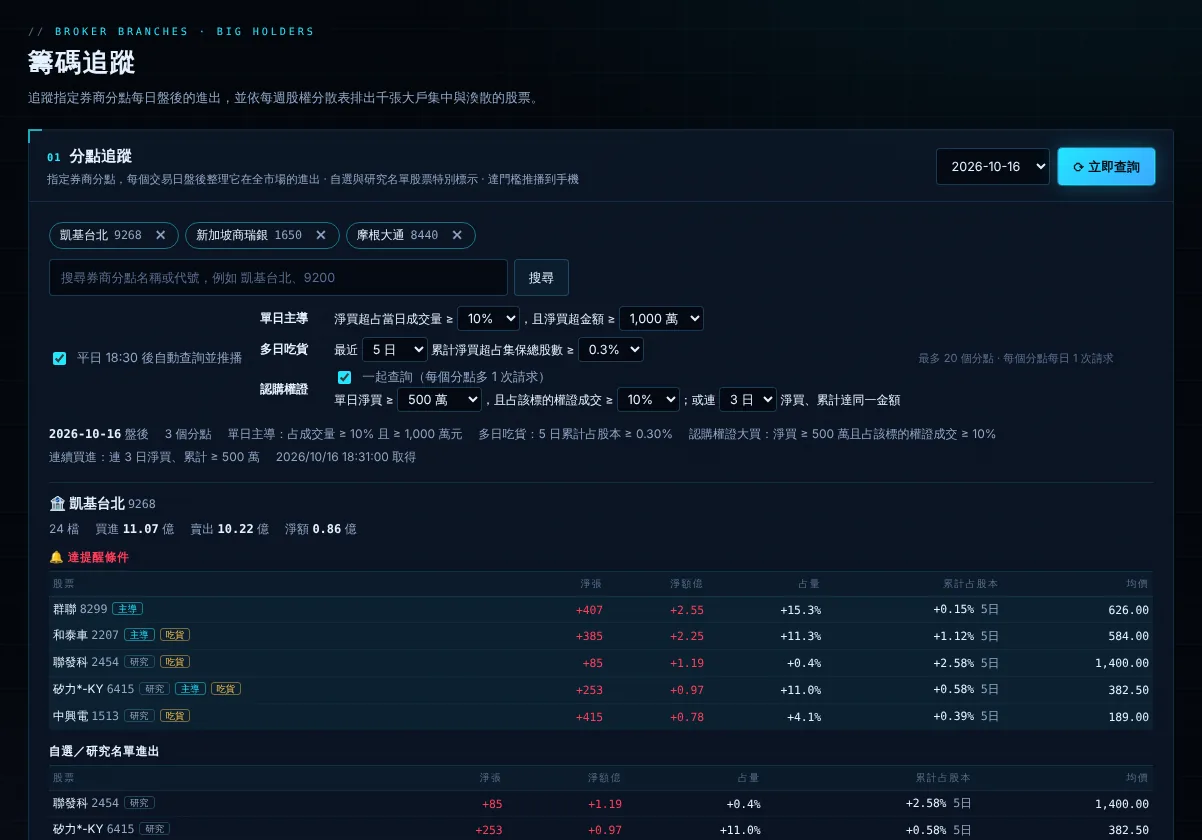
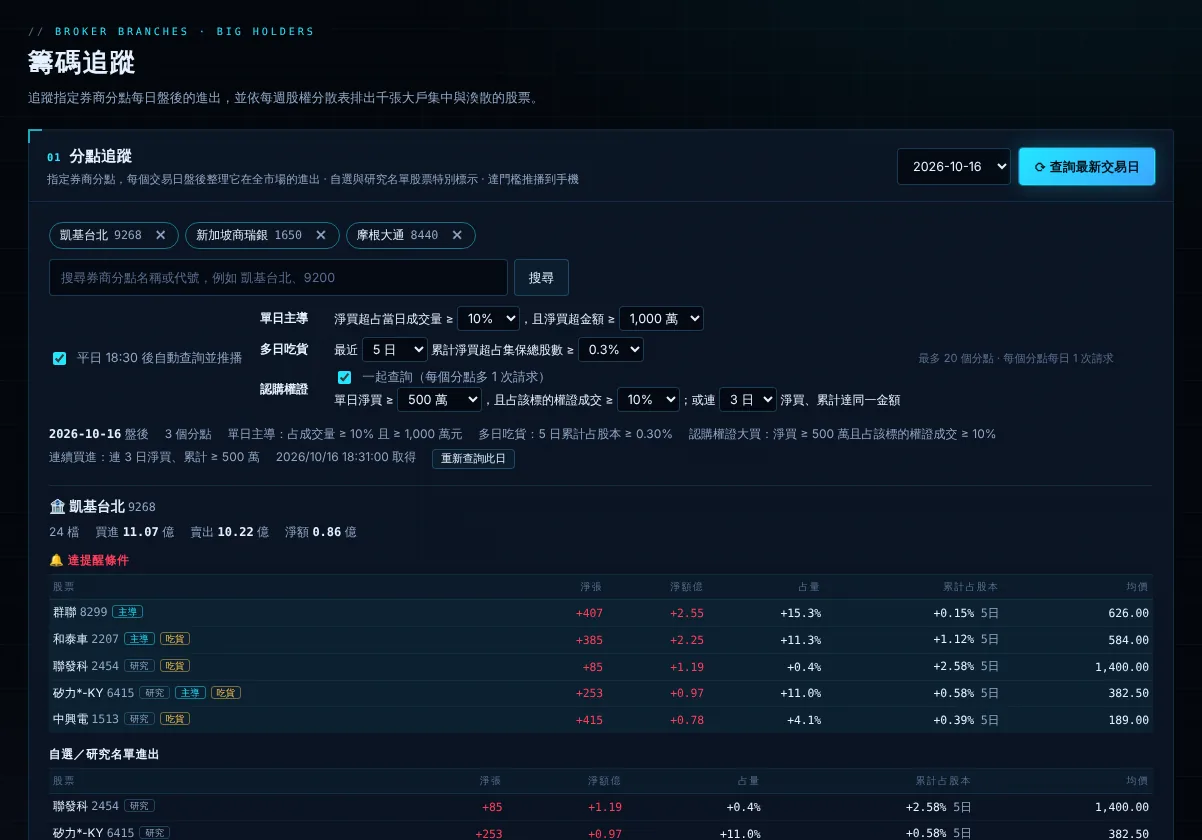
修正分點追蹤日期選單：儲存設定不再跳回最新日期，可查詢任一交易日與重新查詢，查詢改在背景執行並顯示進度
- 調整門檻、加入或移除分點時只更新設定，保留正在看的日期（電腦版與手機版）
- 日期選單新增「其他日期…」（日期欄位＋查詢此日）；每份紀錄旁新增「重新查詢此日」；「立即查詢」改名「查詢最新交易日」
- POST /api/chipwatch/query 檢查非交易日後在背景查詢並回傳 202；GET /api/chipwatch 回傳 date 與查詢進度（busy、query.done／total）
- 頁面每 3 秒更新進度，完成後顯示結果；尚未公布或查詢失敗的訊息註明日期
- 手機版代理的查詢逾時由 300 秒改為 60 秒（查詢已改為立即回傳）
- 說明文件：分點追蹤「排程與查詢」、版本紀錄（並把 10/18、10/21 兩節移到最上面）、README 常見問題、架構說明；更新籌碼追蹤截圖

Claude-Session: https://claude.ai/code/session_013XEoTHEjVVDNch73KNvd6c

diff --git a/EquiLens-Nexus/public/chipwatch.js b/EquiLens-Nexus/public/chipwatch.js
@@ -1,16 +1,33 @@
 // 籌碼追蹤頁：分點追蹤（指定券商分點每日盤後進出）＋大戶集中度排行（每週股權分散表）。台股 FinMind Sponsor。
-import { esc, branchRulesForm, fmt, chipwatchHTML, branchChips, branchSearchHTML, holderRankHTML } from './insight-ui.js';
+import { esc, branchRulesForm, fmt, chipwatchHTML, cwDateHTML, branchChips, branchSearchHTML, holderRankHTML } from './insight-ui.js';
 import { t } from './i18n.js';
 let C = null; // { api, toast, page }（股票按鈕由 live.js 的 data-alert-stock 處理）
-const W = { info: null, rank: null, scope: 'mine', found: null, q: '', loading: false, hloading: false, error: '' };
+// date：正在檢視的紀錄日期（空白＝最新）；picking：展開「其他日期」的日期欄位
+const W = { info: null, rank: null, scope: 'mine', found: null, q: '', loading: false, hloading: false, error: '', date: '', picking: false, pickDate: '' };
 export function initChipwatch(ctx) { C = ctx; }
 const repaint = () => { if (C.page() !== 'chips') return; const pc = document.getElementById('pagecontent'); if (pc) { const y = window.scrollY; pc.innerHTML = chipPage(); window.scrollTo(0, y); } };
 
 export async function enterChips() {
-  try { const [info, rank] = await Promise.all([C.api('chipwatch'), C.api('holders/rank?scope=' + W.scope)]); W.info = info; W.rank = rank; W.error = ''; } catch (e) { W.error = e.message; }
-  repaint();
+  try { const [info, rank] = await Promise.all([C.api('chipwatch' + (W.date ? '?date=' + W.date : '')), C.api('holders/rank?scope=' + W.scope)]); W.info = info; W.rank = rank; W.error = ''; } catch (e) { W.error = e.message; }
+  repaint(); if (W.info?.busy) poll();
 }
-async function loadInfo(date) { W.info = await C.api('chipwatch' + (date ? '?date=' + date : '')); }
+async function loadInfo(date) { W.date = date || ''; W.error = ''; W.info = await C.api('chipwatch' + (W.date ? '?date=' + W.date : '')); }
+// 查詢在伺服器背景執行：每 3 秒取一次進度，完成後顯示該日紀錄或原因
+const sleep = ms => new Promise(r => setTimeout(r, ms));
+let polling = false;
+async function poll() {
+  if (polling) return; polling = true;
+  try {
+    while (W.info?.busy) { await sleep(3000); if (C.page() !== 'chips') return; W.info = await C.api('chipwatch?date=' + (W.info.query?.date || W.date)); repaint(); }
+    W.date = W.info?.date || W.date;
+    if (W.loading && !W.info?.error && W.info?.report) C.toast('分點追蹤已更新'); // 失敗或尚未公布的原因由 info.error 顯示
+  } catch (e) { W.error = e.message; } finally { polling = false; W.loading = false; repaint(); }
+}
+async function startQuery(date) {
+  W.loading = true; W.error = ''; W.picking = false; repaint();
+  try { W.info = await C.api('chipwatch/query', date ? { date } : {}); W.date = W.info.date || date || ''; repaint(); await poll(); }
+  catch (err) { W.error = err.message; W.loading = false; repaint(); }
+}
 async function loadRank() { W.rank = await C.api('holders/rank?scope=' + W.scope); }
 
 export function chipPage() {
@@ -19,7 +36,7 @@ export function chipPage() {
   if (i && !i.capable) return `<div class="notice warn"><span>籌碼追蹤需要 FinMind Sponsor 方案（券商分點與全市場股權分散表）。</span><button data-page="settings">資料來源設定 →</button></div>`;
   const s = i?.settings || {};
   const bw = `<section class="panel"><div class="panelhead"><div><h2><span class="idx">01</span>分點追蹤</h2><p>指定券商分點，每個交易日盤後整理它在全市場的進出 · 自選與研究名單股票特別標示 · 達門檻推播到手機</p></div>
-    <div class="actions">${i?.dates?.length ? `<select data-cw-date aria-label="追蹤紀錄日期">${i.dates.slice().reverse().map(d => `<option ${d === i.report?.date ? 'selected' : ''}>${d}</option>`).join('')}</select>` : ''}<button class="primary" data-cw="query" ${W.loading || i?.busy || !s.branches?.length ? 'disabled' : ''}>${W.loading || i?.busy ? '<i class="spinner"></i>查詢中…' : '⟳ 立即查詢'}</button></div></div>
+    <div class="actions">${i ? cwDateHTML(i, W) : ''}<button class="primary" data-cw="query" ${W.loading || i?.busy || !s.branches?.length ? 'disabled' : ''}>${W.loading || i?.busy ? '<i class="spinner"></i>查詢中…' : '⟳ 查詢最新交易日'}</button></div></div>
     <div class="contentpad"><div class="ix-cw-set">${branchChips(s)}
       <form class="ix-cw-search" data-cw-search><input name="q" value="${esc(W.q)}" placeholder="搜尋券商分點名稱或代號，例如 凱基台北、9200" maxlength="30" aria-label="搜尋券商分點"><button type="submit">搜尋</button></form>
       ${W.found ? branchSearchHTML(W.found, s) : ''}
@@ -35,13 +52,16 @@ ${branchRulesForm(s)}<span class="fine">最多 ${i?.maxBranches || 20} 個分點
   return bw + h;
 }
 
-async function saveSettings(patch) { W.info = { ...W.info, ...(await C.api('chipwatch/settings', patch)) }; repaint(); }
+// 儲存設定只更新設定，不改變正在檢視的日期
+async function saveSettings(patch) { const r = await C.api('chipwatch/settings', patch); W.info = { ...W.info, settings: r.settings }; repaint(); }
 document.addEventListener('click', async e => {
   const b = e.target.closest('button'); if (!b || !C || C.page() !== 'chips') return; const ds = b.dataset;
   try {
     if (ds.cwAdd) { const list = [...(W.info?.settings?.branches || []), { id: ds.cwAdd, name: ds.name }]; await saveSettings({ branches: list }); return C.toast(t('已追蹤 {name}', { name: ds.name })); }
     if (ds.cwDel) { await saveSettings({ branches: (W.info?.settings?.branches || []).filter(x => x.id !== ds.cwDel) }); return C.toast('已移除追蹤分點'); }
-    if (ds.cw === 'query') { W.loading = true; W.error = ''; repaint(); try { W.info = await C.api('chipwatch/query', {}); C.toast('分點追蹤已更新'); } catch (err) { W.error = err.message; } finally { W.loading = false; repaint(); } return; }
+    if (ds.cw === 'query') return startQuery('');
+    if (ds.cw === 'requery') return startQuery(ds.date);
+    if (ds.cw === 'pick') { const d = document.querySelector('[data-cw-pick]')?.value; if (!d) return C.toast('請選擇日期'); W.pickDate = d; if (W.info?.dates?.includes(d)) { W.picking = false; await loadInfo(d); return repaint(); } return startQuery(d); }
     if (ds.hrScope) { W.scope = ds.hrScope; await loadRank(); return repaint(); }
     if (ds.hr === 'query') { W.hloading = true; repaint(); try { await C.api('holders/rank/query', {}); await loadRank(); C.toast('大戶資料已更新'); } catch (err) { C.toast(err.message); } finally { W.hloading = false; repaint(); } return; }
   } catch (err) { C.toast(err.message); }
@@ -56,6 +76,7 @@ document.addEventListener('change', async e => {
   const el = e.target; if (!C || C.page() !== 'chips') return;
   try {
     if (el.dataset.cwOpt) { await saveSettings({ [el.dataset.cwOpt]: el.type === 'checkbox' ? el.checked : Number(el.value) }); C.toast('籌碼追蹤設定已儲存'); }
-    if ('cwDate' in el.dataset) { await loadInfo(el.value); repaint(); }
+    if ('cwDate' in el.dataset) { if (el.value === '__pick') { W.picking = true; W.pickDate = W.info?.date || ''; return repaint(); } W.picking = false; await loadInfo(el.value); repaint(); }
+    if ('cwPick' in el.dataset) W.pickDate = el.value;
   } catch (err) { C.toast(err.message); }
 });

diff --git a/EquiLens-Pocket/public/chips.js b/EquiLens-Pocket/public/chips.js
@@ -1,17 +1,35 @@
 // 衡析 Pocket：籌碼分頁的「分點追蹤」與「大戶排行」（台股 FinMind Sponsor）。資料與設定都在電腦上的 Nexus，手機可查看、查詢與調整追蹤分點。
-import { esc, branchRulesForm, chipwatchHTML, branchChips, branchSearchHTML, holderRankHTML } from './insight-ui.js';
+import { esc, branchRulesForm, chipwatchHTML, cwDateHTML, branchChips, branchSearchHTML, holderRankHTML } from './insight-ui.js';
 import { t } from './i18n.js';
 
 let C = null; // { api, toast, draw, S }
-const W = { info: null, rank: null, scope: 'mine', found: null, q: '', loading: false, hloading: false, error: '' };
+// date：正在檢視的紀錄日期（空白＝最新）；picking：展開「其他日期」的日期欄位
+const W = { info: null, rank: null, scope: 'mine', found: null, q: '', loading: false, hloading: false, error: '', date: '', picking: false, pickDate: '' };
 export function initChips(ctx) { C = ctx; }
 const redraw = () => { if (C.S.tab === 'flows' && C.S.flows.view !== 'inst') C.draw(); };
 export async function loadChips(force = false) {
   try {
-    if (C.S.flows.view === 'brokers' && (!W.info || force)) W.info = await C.api('api/chipwatch');
+    if (C.S.flows.view === 'brokers' && (!W.info || force)) { await loadInfo(W.date); if (W.info?.busy) poll(); }
     if (C.S.flows.view === 'holders' && (!W.rank || force)) W.rank = await C.api('api/holders/rank?scope=' + W.scope);
     W.error = '';
   } catch (e) { if (!e.silent) W.error = e.message; }
+}
+async function loadInfo(date) { W.date = date || ''; W.error = ''; W.info = await C.api('api/chipwatch' + (W.date ? '?date=' + W.date : '')); }
+// 查詢在 Nexus 背景執行：每 3 秒取一次進度，完成後顯示該日紀錄或原因
+const sleep = ms => new Promise(r => setTimeout(r, ms));
+let polling = false;
+async function poll() {
+  if (polling) return; polling = true;
+  try {
+    while (W.info?.busy) { await sleep(3000); if (C.S.tab !== 'flows' || C.S.flows.view !== 'brokers') return; W.info = await C.api('api/chipwatch?date=' + (W.info.query?.date || W.date)); redraw(); }
+    W.date = W.info?.date || W.date;
+    if (W.loading && !W.info?.error && W.info?.report) C.toast('分點追蹤已更新'); // 失敗或尚未公布的原因由 info.error 顯示
+  } catch (e) { if (!e.silent) W.error = e.message; } finally { polling = false; W.loading = false; redraw(); }
+}
+async function startQuery(date) {
+  W.loading = true; W.error = ''; W.picking = false; redraw();
+  try { W.info = await C.api('api/chipwatch/query', date ? { date } : {}); W.date = W.info.date || date || ''; redraw(); await poll(); }
+  catch (err) { if (!err.silent) W.error = err.message; W.loading = false; redraw(); }
 }
 
 export function brokersView() {
@@ -25,8 +43,8 @@ export function brokersView() {
     <div class="ix-cw-opts"><label class="checkbox"><input type="checkbox" data-cw-opt="auto" ${s.auto ? 'checked' : ''}> 平日 18:30 後自動查詢並推播</label>
 ${branchRulesForm(s)}</div></div></section>
     ${W.error ? `<div class="notice err">${esc(W.error)}</div>` : ''}${i.error && !i.busy ? `<div class="notice warn">${esc(i.error)}</div>` : ''}
-    <section class="card"><div class="card-h"><h2>盤後進出</h2>${i.dates?.length ? `<select class="sel" data-cw-date aria-label="紀錄日期">${i.dates.slice().reverse().map(d => `<option ${d === i.report?.date ? 'selected' : ''}>${d}</option>`).join('')}</select>` : ''}</div>
-    <div class="card-b"><button class="btn block primary" style="margin-bottom:12px" data-cw="query" ${W.loading || i.busy || !s.branches.length ? 'disabled' : ''}>${W.loading || i.busy ? '<span class="spinner"></span> 查詢中…' : '⟳ 立即查詢最新交易日'}</button>${chipwatchHTML(i)}</div></section>`;
+    <section class="card"><div class="card-h"><h2>盤後進出</h2>${cwDateHTML(i, { ...W, cls: 'sel' })}</div>
+    <div class="card-b"><button class="btn block primary" style="margin-bottom:12px" data-cw="query" ${W.loading || i.busy || !s.branches.length ? 'disabled' : ''}>${W.loading || i.busy ? '<span class="spinner"></span> 查詢中…' : '⟳ 查詢最新交易日'}</button>${chipwatchHTML(i)}</div></section>`;
 }
 export function holdersView() {
   const r = W.rank;
@@ -40,11 +58,14 @@ export function holdersView() {
 
 document.addEventListener('click', async e => {
   const b = e.target.closest('button'); if (!b || !C || C.S.tab !== 'flows') return; const ds = b.dataset;
-  const save = async patch => { W.info = { ...W.info, ...(await C.api('api/chipwatch/settings', patch)) }; redraw(); };
+  // 儲存設定只更新設定，不改變正在檢視的日期
+  const save = async patch => { const r = await C.api('api/chipwatch/settings', patch); W.info = { ...W.info, settings: r.settings }; redraw(); };
   try {
     if (ds.cwAdd) { await save({ branches: [...W.info.settings.branches, { id: ds.cwAdd, name: ds.name }] }); return C.toast(t('已追蹤 {name}', { name: ds.name })); }
     if (ds.cwDel) { await save({ branches: W.info.settings.branches.filter(x => x.id !== ds.cwDel) }); return C.toast('已移除追蹤分點'); }
-    if (ds.cw === 'query') { W.loading = true; W.error = ''; redraw(); try { W.info = await C.api('api/chipwatch/query', {}); C.toast('分點追蹤已更新'); } catch (err) { if (!err.silent) W.error = err.message; } finally { W.loading = false; redraw(); } return; }
+    if (ds.cw === 'query') return startQuery('');
+    if (ds.cw === 'requery') return startQuery(ds.date);
+    if (ds.cw === 'pick') { const d = document.querySelector('[data-cw-pick]')?.value; if (!d) return C.toast('請選擇日期'); W.pickDate = d; if (W.info?.dates?.includes(d)) { W.picking = false; await loadInfo(d); return redraw(); } return startQuery(d); }
     if (ds.hrScope) { W.scope = ds.hrScope; W.rank = null; redraw(); await loadChips(); return redraw(); }
     if (ds.hr === 'query') { W.hloading = true; redraw(); try { await C.api('api/holders/rank/query', {}); W.rank = await C.api('api/holders/rank?scope=' + W.scope); C.toast('大戶資料已更新'); } catch (err) { if (!err.silent) C.toast(err.message); } finally { W.hloading = false; redraw(); } return; }
   } catch (err) { if (!err.silent) C.toast(err.message); }
@@ -58,7 +79,8 @@ document.addEventListener('submit', async e => {
 document.addEventListener('change', async e => {
   const el = e.target; if (!C || C.S.tab !== 'flows') return;
   try {
-    if (el.dataset.cwOpt) { W.info = { ...W.info, ...(await C.api('api/chipwatch/settings', { [el.dataset.cwOpt]: el.type === 'checkbox' ? el.checked : Number(el.value) })) }; C.toast('設定已儲存'); redraw(); }
-    if ('cwDate' in el.dataset) { W.info = await C.api('api/chipwatch?date=' + el.value); redraw(); }
+    if (el.dataset.cwOpt) { const r = await C.api('api/chipwatch/settings', { [el.dataset.cwOpt]: el.type === 'checkbox' ? el.checked : Number(el.value) }); W.info = { ...W.info, settings: r.settings }; C.toast('設定已儲存'); redraw(); }
+    if ('cwDate' in el.dataset) { if (el.value === '__pick') { W.picking = true; W.pickDate = W.info?.date || ''; return redraw(); } W.picking = false; await loadInfo(el.value); redraw(); }
+    if ('cwPick' in el.dataset) W.pickDate = el.value;
   } catch (err) { if (!err.silent) C.toast(err.message); }
 });

diff --git a/EquiLens-Nexus/public/insight-ui.js b/EquiLens-Nexus/public/insight-ui.js
@@ -228,16 +228,24 @@ export function branchHTML(b, { top = 10 } = {}) {
   return `<section class="ix-cw"><h4>🏦 ${esc(b.name)} <small class="num">${esc(b.id)}</small></h4><div class="ix-bmeta"><span>${fmt(b.count)} 檔</span><span>買進 <b>${yi8(b.buyAmt)}</b> 億</span><span>賣出 <b>${yi8(b.sellAmt)}</b> 億</span><span>淨額 <b class="${cls(b.buyAmt - b.sellAmt)}">${yi8(b.buyAmt - b.sellAmt)}</b> 億</span></div>
   ${b.signals?.length ? table(b.signals, '🔔 達提醒條件', 'up') : ''}${b.mine.length ? table(b.mine, '自選／研究名單進出', '') : ''}<div class="ix-bgrid">${table(b.buy.slice(0, top), `買超前 ${top}`, 'up')}${table(b.sell.slice(0, top), `賣超前 ${top}`, 'down')}</div>${branchWarrantHTML(b.warrants)}</section>`;
 }
+// 分點追蹤的日期選單（電腦版與手機版共用）：已有紀錄的日期、目前檢視的日期，以及「其他日期…」（展開日期欄位，可查詢任一交易日）
+export function cwDateHTML(info, { picking = false, pickDate = '', cls = '' } = {}) {
+  const cur = info?.date || '', dates = [...new Set([...(info?.dates || []), ...(cur ? [cur] : [])])].sort().reverse(), have = new Set(info?.dates || []);
+  const today = new Date(Date.now() + 8 * 3600e3).toISOString().slice(0, 10);
+  const sel = `<select ${cls ? `class="${cls}"` : ''} data-cw-date aria-label="追蹤紀錄日期">${dates.length ? '' : '<option value="">尚無紀錄</option>'}${dates.map(d => `<option value="${d}" ${d === cur && !picking ? 'selected' : ''}>${d}${have.has(d) ? '' : '（尚無紀錄）'}</option>`).join('')}<option value="__pick" ${picking ? 'selected' : ''}>其他日期…</option></select>`;
+  return picking ? `${sel}<span class="ix-cw-pick"><input type="date" data-cw-pick max="${today}" min="2015-01-05" value="${esc(pickDate || cur)}" aria-label="查詢日期"><button data-cw="pick">查詢此日</button></span>` : sel;
+}
 export function chipwatchHTML(info) {
-  const r = info?.report;
-  if (!r) return `<p class="ix-empty">${info?.settings?.branches?.length ? '尚無追蹤紀錄。平日 18:30 後自動查詢，也可以立即查詢。' : '先在上方加入要追蹤的券商分點。'}</p>`;
+  const r = info?.report, q = info?.busy && info.query;
+  const prog = q ? `<p class="ix-note">⏳ 正在查詢 ${esc(q.date)}：${fmt(q.done)}／${fmt(q.total)} 個分點${info.settings?.warrants !== false ? '（含認購權證，每個分點 2 次請求）' : ''}，完成後自動顯示</p>` : '';
+  if (!r) return `${prog}<p class="ix-empty">${!info?.settings?.branches?.length ? '先在上方加入要追蹤的券商分點。' : q ? '' : info?.date ? `${esc(info.date)} 尚無追蹤紀錄。 <button class="ix-wbtn" data-cw="requery" data-date="${esc(info.date)}">查詢此日</button>` : '尚無追蹤紀錄。平日 18:30 後自動查詢，也可以立即查詢。'}</p>`;
   const R = r.rules, src = { heatmap: '熱浪圖', replay: '時光機' }[r.volumeSource];
   const rules = R ? `<span>單日主導：占成交量 ≥ ${fmt(R.dayPct)}% 且 ≥ ${fmt(R.minAmount / 1e4)} 萬元</span><span>多日吃貨：${R.accumDays} 日累計占股本 ≥ ${fmt(R.accumPct, 2)}%</span>` : '';
   const WR = r.warrantRules, WI = r.warrantInfo;
   const wrules = WR ? `<span>認購權證大買：淨買 ≥ ${wan(WR.amount)} 萬且占該標的權證成交 ≥ ${fmt(WR.pct)}%</span><span>連續買進：連 ${WR.days} 日淨買、累計 ≥ ${wan(WR.amount)} 萬</span>` : '';
   const gaps = R ? [!src ? '當日成交量未取得，無法判斷單日主導' : '', !r.sharesDate ? '尚無股權分散表，無法判斷多日吃貨' : '',
     WI?.error ? `認購權證：${WI.error}` : '', WI && !WI.error && !WI.turnover ? '認購權證行情未取得，權證大買只看金額' : '', WI?.stale ? '權證標的對照表為舊資料' : ''].filter(Boolean) : [];
-  return `<div class="ix-bmeta"><span><b>${esc(r.date)}</b> 盤後</span><span>${r.branches.length} 個分點</span>${rules}${wrules}<span class="muted">${esc(MK.dateTime(r.builtAt))} 取得</span></div>${gaps.length ? `<p class="ix-note">⚠ ${gaps.join('；')}</p>` : ''}${r.branches.map(b => branchHTML(b)).join('')}
+  return `${prog}<div class="ix-bmeta"><span><b>${esc(r.date)}</b> 盤後</span><span>${r.branches.length} 個分點</span>${rules}${wrules}<span class="muted">${esc(MK.dateTime(r.builtAt))} 取得</span>${q || !info?.settings?.branches?.length ? '' : `<button class="ix-wbtn" data-cw="requery" data-date="${esc(r.date)}">重新查詢此日</button>`}</div>${gaps.length ? `<p class="ix-note">⚠ ${gaps.join('；')}</p>` : ''}${r.branches.map(b => branchHTML(b)).join('')}
   <p class="ix-foot">FinMind 券商分點（依券商代碼查詢）· 約 18:00 更新 · 占量＝淨買賣超 ÷ 當日成交量${src ? `（${src}）` : ''} · 累計占股本＝最近 N 日累計淨買賣超 ÷ 集保總股數${r.sharesDate ? `（${esc(r.sharesDate)} 股權分散表）` : ''} · 「連 N 買／賣」與累計以本機已保存的追蹤紀錄計算${WR ? ' · 認購權證：FinMind 權證分點、證交所／櫃買權證行情，占權證成交＝淨買 ÷ 該標的當日認購權證成交金額，發行券商總公司的自家權證進出不列入' : ''}</p>`;
 }
 // 提醒條件設定（電腦版與手機版共用）

diff --git a/EquiLens-Pocket/public/insight-ui.js b/EquiLens-Pocket/public/insight-ui.js
@@ -228,16 +228,24 @@ export function branchHTML(b, { top = 10 } = {}) {
   return `<section class="ix-cw"><h4>🏦 ${esc(b.name)} <small class="num">${esc(b.id)}</small></h4><div class="ix-bmeta"><span>${fmt(b.count)} 檔</span><span>買進 <b>${yi8(b.buyAmt)}</b> 億</span><span>賣出 <b>${yi8(b.sellAmt)}</b> 億</span><span>淨額 <b class="${cls(b.buyAmt - b.sellAmt)}">${yi8(b.buyAmt - b.sellAmt)}</b> 億</span></div>
   ${b.signals?.length ? table(b.signals, '🔔 達提醒條件', 'up') : ''}${b.mine.length ? table(b.mine, '自選／研究名單進出', '') : ''}<div class="ix-bgrid">${table(b.buy.slice(0, top), `買超前 ${top}`, 'up')}${table(b.sell.slice(0, top), `賣超前 ${top}`, 'down')}</div>${branchWarrantHTML(b.warrants)}</section>`;
 }
+// 分點追蹤的日期選單（電腦版與手機版共用）：已有紀錄的日期、目前檢視的日期，以及「其他日期…」（展開日期欄位，可查詢任一交易日）
+export function cwDateHTML(info, { picking = false, pickDate = '', cls = '' } = {}) {
+  const cur = info?.date || '', dates = [...new Set([...(info?.dates || []), ...(cur ? [cur] : [])])].sort().reverse(), have = new Set(info?.dates || []);
+  const today = new Date(Date.now() + 8 * 3600e3).toISOString().slice(0, 10);
+  const sel = `<select ${cls ? `class="${cls}"` : ''} data-cw-date aria-label="追蹤紀錄日期">${dates.length ? '' : '<option value="">尚無紀錄</option>'}${dates.map(d => `<option value="${d}" ${d === cur && !picking ? 'selected' : ''}>${d}${have.has(d) ? '' : '（尚無紀錄）'}</option>`).join('')}<option value="__pick" ${picking ? 'selected' : ''}>其他日期…</option></select>`;
+  return picking ? `${sel}<span class="ix-cw-pick"><input type="date" data-cw-pick max="${today}" min="2015-01-05" value="${esc(pickDate || cur)}" aria-label="查詢日期"><button data-cw="pick">查詢此日</button></span>` : sel;
+}
 export function chipwatchHTML(info) {
-  const r = info?.report;
-  if (!r) return `<p class="ix-empty">${info?.settings?.branches?.length ? '尚無追蹤紀錄。平日 18:30 後自動查詢，也可以立即查詢。' : '先在上方加入要追蹤的券商分點。'}</p>`;
+  const r = info?.report, q = info?.busy && info.query;
+  const prog = q ? `<p class="ix-note">⏳ 正在查詢 ${esc(q.date)}：${fmt(q.done)}／${fmt(q.total)} 個分點${info.settings?.warrants !== false ? '（含認購權證，每個分點 2 次請求）' : ''}，完成後自動顯示</p>` : '';
+  if (!r) return `${prog}<p class="ix-empty">${!info?.settings?.branches?.length ? '先在上方加入要追蹤的券商分點。' : q ? '' : info?.date ? `${esc(info.date)} 尚無追蹤紀錄。 <button class="ix-wbtn" data-cw="requery" data-date="${esc(info.date)}">查詢此日</button>` : '尚無追蹤紀錄。平日 18:30 後自動查詢，也可以立即查詢。'}</p>`;
   const R = r.rules, src = { heatmap: '熱浪圖', replay: '時光機' }[r.volumeSource];
   const rules = R ? `<span>單日主導：占成交量 ≥ ${fmt(R.dayPct)}% 且 ≥ ${fmt(R.minAmount / 1e4)} 萬元</span><span>多日吃貨：${R.accumDays} 日累計占股本 ≥ ${fmt(R.accumPct, 2)}%</span>` : '';
   const WR = r.warrantRules, WI = r.warrantInfo;
   const wrules = WR ? `<span>認購權證大買：淨買 ≥ ${wan(WR.amount)} 萬且占該標的權證成交 ≥ ${fmt(WR.pct)}%</span><span>連續買進：連 ${WR.days} 日淨買、累計 ≥ ${wan(WR.amount)} 萬</span>` : '';
   const gaps = R ? [!src ? '當日成交量未取得，無法判斷單日主導' : '', !r.sharesDate ? '尚無股權分散表，無法判斷多日吃貨' : '',
     WI?.error ? `認購權證：${WI.error}` : '', WI && !WI.error && !WI.turnover ? '認購權證行情未取得，權證大買只看金額' : '', WI?.stale ? '權證標的對照表為舊資料' : ''].filter(Boolean) : [];
-  return `<div class="ix-bmeta"><span><b>${esc(r.date)}</b> 盤後</span><span>${r.branches.length} 個分點</span>${rules}${wrules}<span class="muted">${esc(MK.dateTime(r.builtAt))} 取得</span></div>${gaps.length ? `<p class="ix-note">⚠ ${gaps.join('；')}</p>` : ''}${r.branches.map(b => branchHTML(b)).join('')}
+  return `${prog}<div class="ix-bmeta"><span><b>${esc(r.date)}</b> 盤後</span><span>${r.branches.length} 個分點</span>${rules}${wrules}<span class="muted">${esc(MK.dateTime(r.builtAt))} 取得</span>${q || !info?.settings?.branches?.length ? '' : `<button class="ix-wbtn" data-cw="requery" data-date="${esc(r.date)}">重新查詢此日</button>`}</div>${gaps.length ? `<p class="ix-note">⚠ ${gaps.join('；')}</p>` : ''}${r.branches.map(b => branchHTML(b)).join('')}
   <p class="ix-foot">FinMind 券商分點（依券商代碼查詢）· 約 18:00 更新 · 占量＝淨買賣超 ÷ 當日成交量${src ? `（${src}）` : ''} · 累計占股本＝最近 N 日累計淨買賣超 ÷ 集保總股數${r.sharesDate ? `（${esc(r.sharesDate)} 股權分散表）` : ''} · 「連 N 買／賣」與累計以本機已保存的追蹤紀錄計算${WR ? ' · 認購權證：FinMind 權證分點、證交所／櫃買權證行情，占權證成交＝淨買 ÷ 該標的當日認購權證成交金額，發行券商總公司的自家權證進出不列入' : ''}</p>`;
 }
 // 提醒條件設定（電腦版與手機版共用）

diff --git a/EquiLens-Pocket/public/app.css b/EquiLens-Pocket/public/app.css
@@ -439,6 +439,9 @@ a.ix-alert{color:inherit;text-decoration:none}
 .ix-cw-chip small{color:var(--muted)}.ix-cw-chip button{padding:2px 8px;border:0;background:none;color:var(--muted)}
 .ix-cw-search{display:flex;gap:6px}.ix-cw-search input{flex:1;min-width:0;padding:9px 10px;border-radius:9px;border:1px solid var(--line2);background:var(--surface);color:var(--text);font-size:16px}
 .ix-cw-search button{padding:9px 14px;border-radius:9px;border:1px solid var(--line2);background:var(--surface2);color:var(--text)}
+.card-h:has(.ix-cw-pick){flex-wrap:wrap}.ix-cw-pick{display:flex;gap:6px;width:100%}
+.ix-cw-pick input{flex:1;min-width:0;min-height:44px;padding:0 10px;border-radius:12px;border:1px solid var(--line2);background:var(--surface);color:var(--text);font-size:16px}
+.ix-cw-pick button{padding:0 14px;border-radius:12px;border:1px solid var(--line2);background:var(--surface2);color:var(--text)}
 .ix-cw-found{display:flex;flex-wrap:wrap;gap:6px}.ix-cw-found button{font-size:.8rem;padding:6px 10px;border-radius:999px;border:1px solid var(--line2);background:var(--surface);color:var(--text)}
 .ix-cw-opts{display:grid;gap:8px;font-size:.84rem}
 .ix-cw{margin-top:14px;padding-top:12px;border-top:1px solid var(--line)}

diff --git a/EquiLens-Nexus/public/hud.css b/EquiLens-Nexus/public/hud.css
@@ -726,6 +726,7 @@ a.ix-alert{color:inherit;text-decoration:none}a.ix-alert:hover .ix-ab>small{colo
 .ix-cw-chip{display:inline-flex;align-items:center;gap:6px;padding:4px 4px 4px 10px;border:1px solid rgba(34,230,255,.45);border-radius:999px;font-size:.8rem;color:var(--ink)}
 .ix-cw-chip small{color:var(--muted);font-family:var(--mono)}.ix-cw-chip button{padding:0 7px;border:0;background:none;color:var(--muted)}
 .ix-cw-search{display:flex;gap:6px;max-width:520px}.ix-cw-search input{flex:1}
+.ix-cw-pick{display:inline-flex;gap:6px;align-items:center}
 .ix-cw-found{display:flex;flex-wrap:wrap;gap:6px}.ix-cw-found button{font-size:.78rem;padding:4px 10px}
 .ix-cw-opts{display:flex;flex-wrap:wrap;gap:8px 18px;align-items:center;font-size:.8rem}
 .ix-cw{margin-top:16px;padding-top:12px;border-top:1px solid var(--line)}

diff --git a/docs/CHANGELOG.zh-TW.md b/docs/CHANGELOG.zh-TW.md
@@ -2,6 +2,30 @@
 
 每次更新都記在這裡，最新的在最上面。各功能的完整說明見[功能說明](features/README.md)。
 
+## 2026-10-21 · 修正分點追蹤的日期選單
+
+- 修正：在日期選單切到過去的日期後，調整門檻、加入或移除分點會跳回最新日期；現在儲存設定不再改變正在看的日期。
+- 日期選單新增「其他日期…」：選一個日期後按「查詢此日」，已有紀錄就直接顯示，沒有紀錄就查詢那一天（可補查漏掉的交易日）；非交易日、未來日期會直接提示。
+- 每份紀錄旁新增「重新查詢此日」，可用目前的門檻重新整理同一天；原本「立即查詢」只能查最新交易日，改名「查詢最新交易日」。
+- 查詢改在背景執行，畫面顯示「正在查詢 某日：已完成／全部分點」，完成後自動顯示結果。原本追蹤分點多、又一起查認購權證時，手機版可能等不到結果就逾時。
+- 查詢失敗或資料尚未公布時，訊息會註明是哪一天。
+- 見[分點追蹤](features/broker-watch.md)。
+
+## 2026-10-21 · 權證追蹤（認購權證）
+
+- 新增[權證追蹤](features/warrants.md)：分點追蹤會一起查每個追蹤分點當天的認購權證進出，依標的彙總，算出淨買金額、占該標的當日認購權證成交的比例，以及連續買進天數。認售、牛熊證與發行券商總公司的自家權證造市不列入。
+- 新提醒：**權證大買**（單日淨買 ≥ 500 萬元且占比 ≥ 10%）與**連續買進**（連 3 日淨買且累計 ≥ 500 萬元），併在分點追蹤的推播中；門檻在「籌碼追蹤」頁調整，也可關閉。
+- 個股視窗（電腦版個股診斷、手機版個股頁）新增「認購權證」：交易中的認購權證、履約價、價內外、剩餘天數、行使比例、成交、名目槓桿、追蹤分點的進出，每檔可查分點。
+- AI 盤後日報的籌碼資料加入追蹤分點的認購權證淨買。
+- 資料：FinMind 權證分點（每個分點每天多 1 次）與權證標的對照（每天 1 次）；認購權證行情取自證交所與櫃買中心開放資料（免金鑰）。
+- 截圖：更新籌碼追蹤、個股診斷與手機版畫面，新增認購權證截圖。
+
+## 2026-10-18 · 倉庫改名 tw-trading-dashboard、說明文件加入畫面截圖
+
+- GitHub 倉庫改名為 `tw-trading-dashboard`；README 的下載指令改用新網址（舊網址 GitHub 會自動轉址）。
+- [README](../README.zh-TW.md) 依功能加入電腦版各頁與手機版的截圖（`docs/images/`）；截圖使用示意資料，不是真實行情。
+- 新增截圖工具 `EquiLens-Nexus/tools/screenshots/`：產生示意資料、固定時間與斷開對外連線後自動截圖，之後改版可重新產生。
+
 ## 2026-10-16 · 點任何股票看走勢與五檔、大盤指數卡
 
 - 電腦版與手機版所有介面中的股票，點擊後都先開啟走勢／K 線視窗：當日走勢（均價線、族群均價線）、5 分 K、日 K、五檔與成交明細；研究名單內的股票可再按「個股診斷」。未訂閱即時推播的股票改用富果盤中報價。見[個股視窗](features/stock-detail.md)。
@@ -23,21 +47,6 @@
 - 修正重新連線補資料後 VWAP 只計算重連後成交的錯誤。
 - 手機版看板點卡片顯示即時走勢（當日均價線、族群均價線）、五檔與成交明細，見[盤中雷達](features/live-radar.md)。
 - 五檔錄製每日匯出 ZIP（每檔 CSV）到指定資料夾（例如 Dropbox），見[五檔錄製器](features/book-recorder.md)；CSV 產生速度加快約 20 倍。
-
-## 2026-10-21 · 權證追蹤（認購權證）
-
-- 新增[權證追蹤](features/warrants.md)：分點追蹤會一起查每個追蹤分點當天的認購權證進出，依標的彙總，算出淨買金額、占該標的當日認購權證成交的比例，以及連續買進天數。認售、牛熊證與發行券商總公司的自家權證造市不列入。
-- 新提醒：**權證大買**（單日淨買 ≥ 500 萬元且占比 ≥ 10%）與**連續買進**（連 3 日淨買且累計 ≥ 500 萬元），併在分點追蹤的推播中；門檻在「籌碼追蹤」頁調整，也可關閉。
-- 個股視窗（電腦版個股診斷、手機版個股頁）新增「認購權證」：交易中的認購權證、履約價、價內外、剩餘天數、行使比例、成交、名目槓桿、追蹤分點的進出，每檔可查分點。
-- AI 盤後日報的籌碼資料加入追蹤分點的認購權證淨買。
-- 資料：FinMind 權證分點（每個分點每天多 1 次）與權證標的對照（每天 1 次）；認購權證行情取自證交所與櫃買中心開放資料（免金鑰）。
-- 截圖：更新籌碼追蹤、個股診斷與手機版畫面，新增認購權證截圖。
-
-## 2026-10-18 · 倉庫改名 tw-trading-dashboard、說明文件加入畫面截圖
-
-- GitHub 倉庫改名為 `tw-trading-dashboard`；README 的下載指令改用新網址（舊網址 GitHub 會自動轉址）。
-- [README](../README.zh-TW.md) 依功能加入電腦版各頁與手機版的截圖（`docs/images/`）；截圖使用示意資料，不是真實行情。
-- 新增截圖工具 `EquiLens-Nexus/tools/screenshots/`：產生示意資料、固定時間與斷開對外連線後自動截圖，之後改版可重新產生。
 
 ## 2026-10-16 · 當沖大盤環境紀錄（只記錄）
 

diff --git a/docs/ARCHITECTURE.md b/docs/ARCHITECTURE.md
@@ -25,7 +25,7 @@ mobile UI and Web Push relay. There is no database and no build step: plain ES m
 | `lib/radar.mjs`, `lib/replay.mjs` | Intraday alerts and the per-minute time-machine recorder |
 | `lib/pricealerts.mjs` | Custom alerts: user rules per stock (price above/below, % up/down, projected volume ratio), checked on every snapshot or stream row; fires on the false→true crossing, one-time rules disable themselves, repeating rules re-arm with a 5-minute cooldown. Rules in `.local/price-alerts.json`; APIs `GET/POST /api/price-alerts`, `POST /api/price-alerts/delete` |
 | `lib/warrants.mjs` | Warrant tracking (Taiwan, call warrants only, pure): FinMind warrant→underlying lookup (`TaiwanStockInfoWithWarrantSummary`, reused codes resolved by listing/last-trading date), TWSE `MI_INDEX` type 0999 and TPEx `tpex_warrant_daily_quts` quote parsing (`callWarrantQuotes` in `providers/twse.mjs`), issuer from the warrant name (the issuer head office's own warrants are excluded), per-branch aggregation by underlying (net amount, share of the underlying's call-warrant turnover, streaks; big-buy and consecutive-buy signals), and the per-stock warrant list. The broker watch queries `/taiwan_stock_warrant_trading_daily_report` once per tracked branch; APIs `GET /api/warrants?id=`, `GET /api/warrants/brokers?wid=&date=`; cache `.local/warrants/` |
-| `lib/chipwatch.mjs` | Chip tracking (Taiwan, FinMind Sponsor): broker-branch tracking (one by-branch request per tracked branch after 18:30, `.local/broker-watch/<date>.json`, streaks; alerts for one-day dominance — net buying as a share of the day's volume plus a minimum amount — and multi-day accumulation as a share of total shares in custody) and the big-holder concentration ranking (whole-market shareholding table per week, `.local/holders-all/<date>.json`, 1- and 4-week change). APIs `/api/chipwatch*`, `/api/holders/rank*` |
+| `lib/chipwatch.mjs` | Chip tracking (Taiwan, FinMind Sponsor): broker-branch tracking (one by-branch request per tracked branch after 18:30, `.local/broker-watch/<date>.json`, streaks; alerts for one-day dominance — net buying as a share of the day's volume plus a minimum amount — and multi-day accumulation as a share of total shares in custody) and the big-holder concentration ranking (whole-market shareholding table per week, `.local/holders-all/<date>.json`, 1- and 4-week change). APIs `/api/chipwatch*`, `/api/holders/rank*`; `POST /api/chipwatch/query` runs in the background (202) and the pages poll `GET /api/chipwatch?date=` for progress (`busy`, `query`) |
 | `lib/stream.mjs` | Live-stream client (WebSocket): auth, per-channel batched subscriptions, heartbeat check, reconnect with backoff, events flushed in batches; `createStreamPool` spreads symbols over several connections |
 | `lib/daytrade.mjs` | Day-trade engine (pure): per-stock state from trades / 1-minute bars / order book (or aggregates), VWAP, same-time volume baseline from the time machine, order-book imbalance, multi-timeframe score, three long opportunities and two risk alerts, exclusions, backfill, after-close evaluation and versioned review statistics |
 | `lib/daytrade-context.mjs`, `lib/daytrade-history.mjs` | 30-session adjusted daily/minute history, completed 5m/60m aggregation, time-weighted full-depth book confirmation, watchlist history queue/cache |

diff --git a/docs/features/broker-watch.md b/docs/features/broker-watch.md
@@ -40,11 +40,23 @@
 
 同樣 100 張，台積電約 1 億元、只是它成交量的零頭；20 元的小型股只有 200 萬元，卻可能占它整天成交量的一成。固定張數對大型股太鬆、對小型股太嚴，所以改用占成交量、金額與占股本的比例。
 
-## 排程
+## 排程與查詢
 
 - 平日 18:30 後自動查詢當天（FinMind 約 18:00 更新）。資料還沒公布時每 30 分鐘重試，最多 8 次；當天沒有盤中紀錄（休市）時略過。
-- 按「立即查詢」：18:30 前查前一個交易日，之後查今天。
-- 可在日期選單查看過去的紀錄。
+- 頁面右上（手機版在「盤後進出」標題旁）有日期選單與按鈕：
+
+  | 操作 | 作用 |
+  |---|---|
+  | 日期選單 | 列出最近 30 份紀錄，選了就顯示那一天；正在看的日期沒有紀錄時標示「（尚無紀錄）」 |
+  | 其他日期… | 出現日期欄位，選好按「查詢此日」：已有紀錄就直接顯示，沒有就查詢那一天，可補查漏掉的交易日 |
+  | ⟳ 查詢最新交易日 | 18:30 前查前一個交易日，之後查今天 |
+  | 重新查詢此日 | 在報告上方，用目前的分點與門檻重新整理正在看的那一天，覆蓋原本的紀錄 |
+
+- 查詢在背景執行，頁面顯示「正在查詢 某日：已完成／全部分點」，每 3 秒更新，完成後自動顯示結果。查詢期間離開頁面也會繼續，回來時接著顯示進度；同一時間只能有一個查詢。
+- 每個分點 1 次請求，一起查認購權證時是 2 次。FinMind 請求依[設定](settings.md)的請求間隔（預設 7 秒）排隊，追蹤 20 個分點並一起查權證約需 5 分鐘。
+- 不能查的日期直接提示：非交易日顯示「某日 不是交易日」，未來的日期顯示「請選擇有效日期」。
+- 資料還沒公布時顯示「某日 的分點資料尚未公布（約 18:00 後更新）」；查詢失敗時顯示「某日 查詢失敗：原因」。這兩種情況都不會存檔，訊息保留到下一次查詢。
+- 調整門檻、加入或移除分點不會改變正在看的日期。
 
 ## 資料來源與請求量
 
@@ -63,4 +75,4 @@
 
 ## 相關檔案
 
-`EquiLens-Nexus/lib/chipwatch.mjs`、`public/chipwatch.js`；Pocket `public/chips.js`；紀錄 `.local/broker-watch/<日期>.json`；API `GET /api/chipwatch`、`/api/chipwatch/branches`、`POST /api/chipwatch/settings`、`/api/chipwatch/query`。
+`EquiLens-Nexus/lib/chipwatch.mjs`、`public/chipwatch.js`；Pocket `public/chips.js`；紀錄 `.local/broker-watch/<日期>.json`；API `GET /api/chipwatch?date=`（紀錄、日期清單與查詢進度 `busy`／`query`）、`/api/chipwatch/branches`、`POST /api/chipwatch/settings`、`POST /api/chipwatch/query`（可帶 `date`；在背景查詢並立即回傳 202）。

diff --git a/README.zh-TW.md b/README.zh-TW.md
@@ -328,7 +328,7 @@ node scripts/set-password.mjs     # 設定登入密碼，至少 10 個字元（W
 
 **分點追蹤或大戶排行顯示需要 Sponsor？** 這兩項使用 FinMind Sponsor 的資料。續訂後在「資料與設定 → 資料來源」按重新驗證金鑰即可。
 
-**分點追蹤查不到今天的資料？** FinMind 約 18:00 後才公布當日分點資料。18:30 前按「立即查詢」會查前一個交易日；自動查詢會在 18:30 後每 30 分鐘重試，直到資料公布。
+**分點追蹤查不到今天的資料？** FinMind 約 18:00 後才公布當日分點資料。18:30 前按「查詢最新交易日」會查前一個交易日；自動查詢會在 18:30 後每 30 分鐘重試，直到資料公布。漏掉的日子可在日期選單選「其他日期…」補查。
 
 **更新程式後手機網址變了？** 請改用「重新啟動衡析（網址不變）.cmd」，它不會重啟通道；若使用 Cloudflare 臨時網址，只要重啟通道網址就會改變，建議改用固定網域。
 
